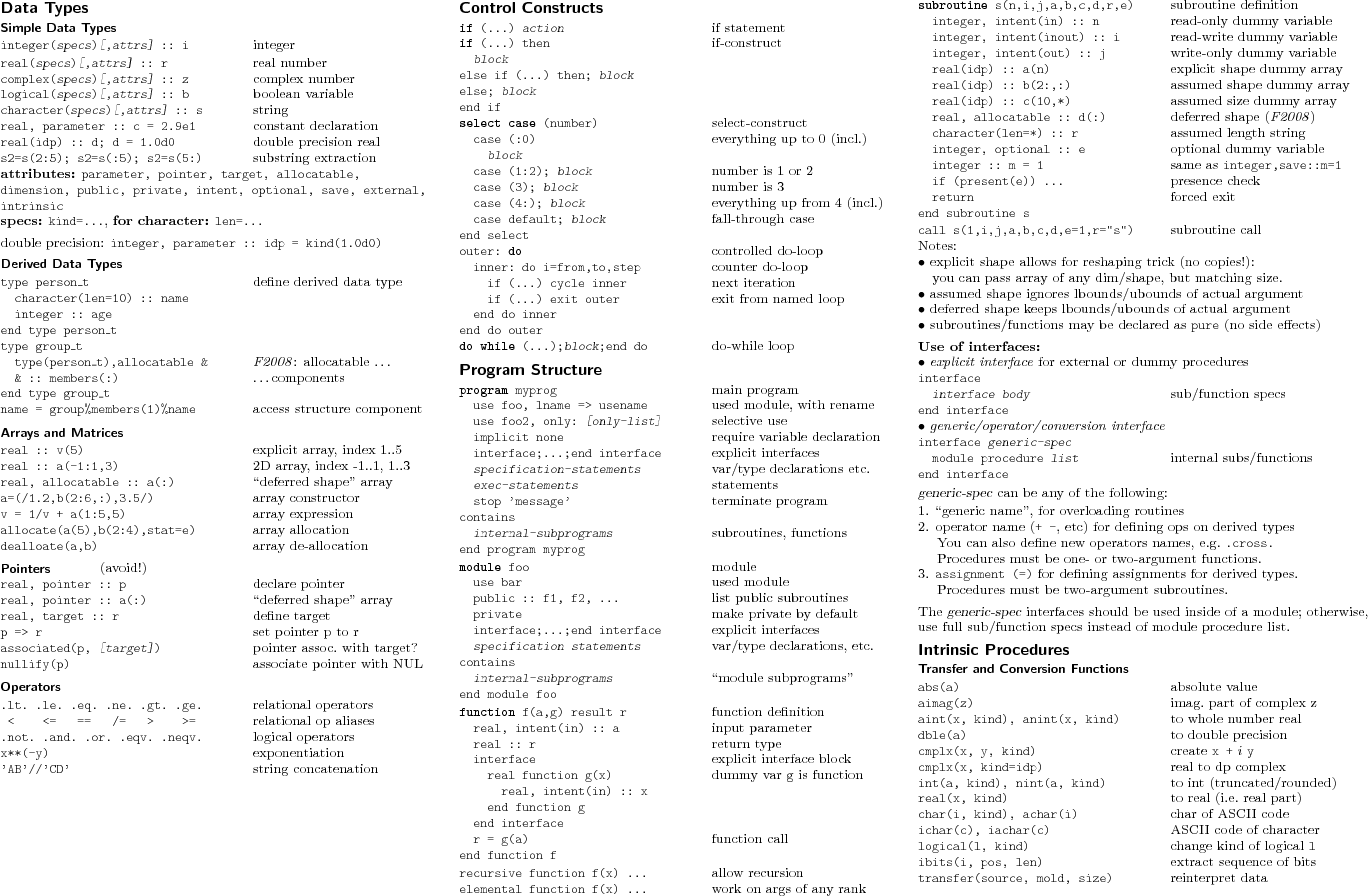
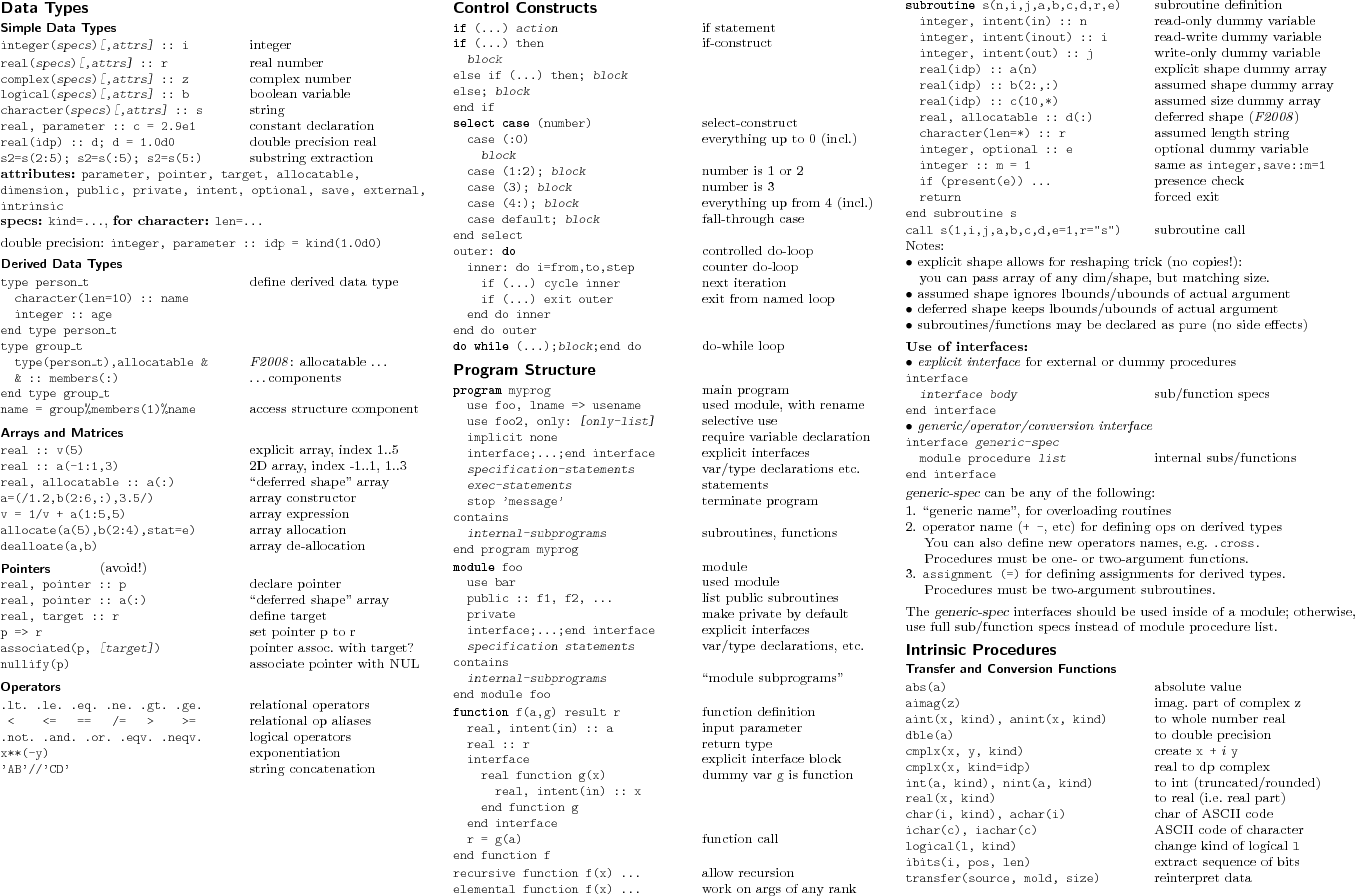
readme

diff --git a/cheatsheet.tex b/cheatsheet.tex
@@ -15,8 +15,8 @@
 \setmarginsrb%
 {0.5cm}  % left
 {0.5cm}  % top
-{0.1cm}  % right
-{0.1cm}  % bottom
+{0.5cm}  % right
+{0.5cm}  % bottom
 {0ex}    % header height
 {0ex}    % header separation
 {0ex}    % footer height
